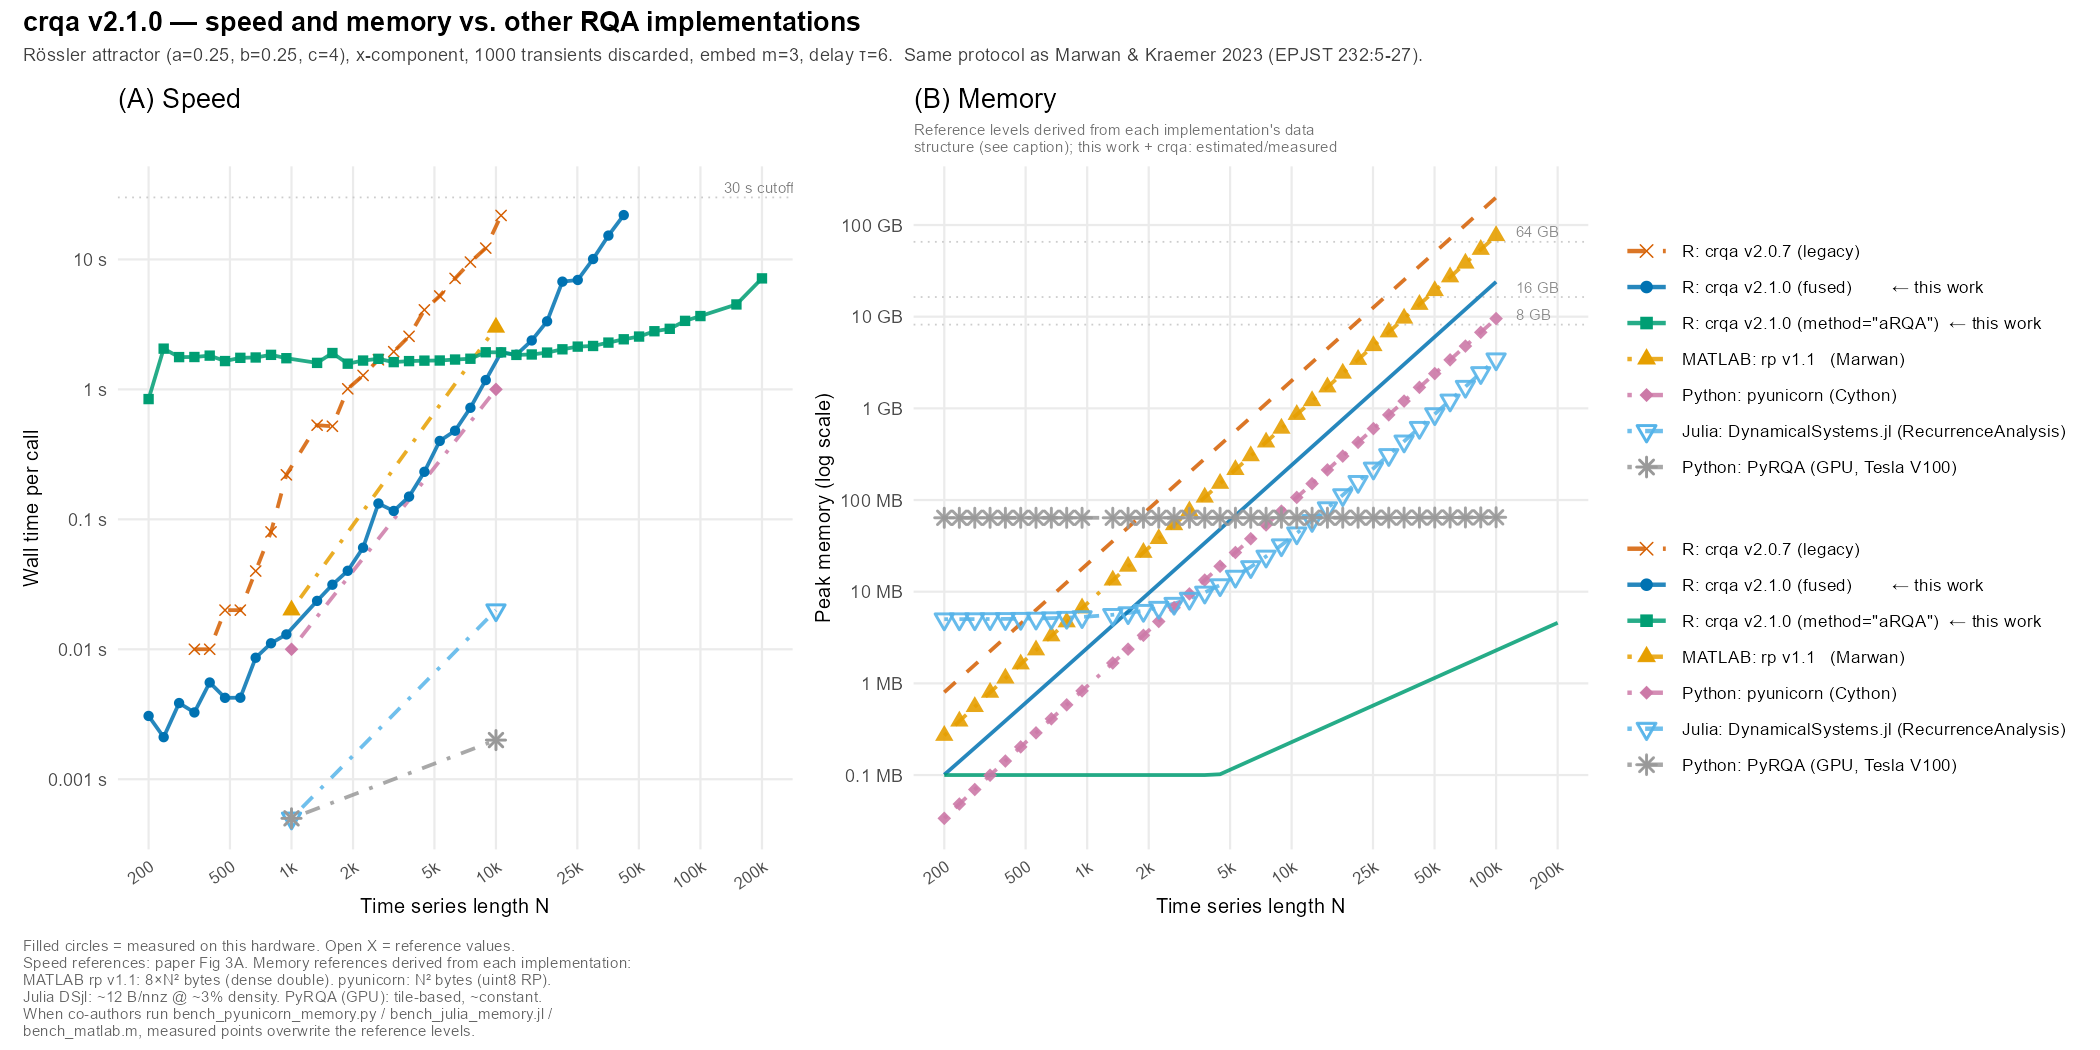
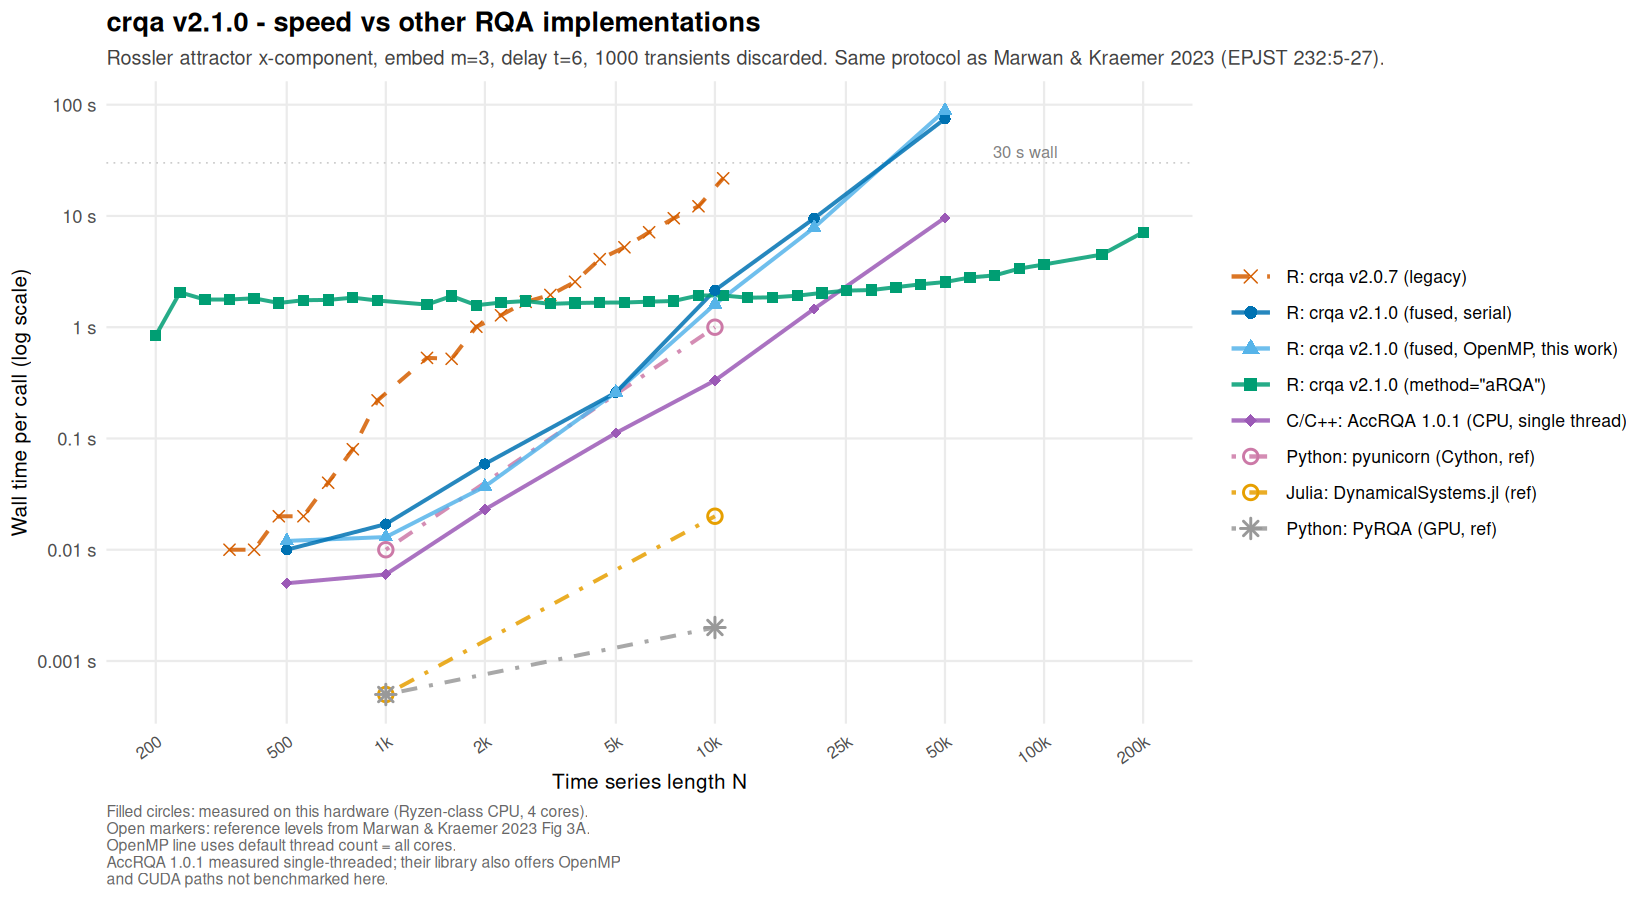
Refresh vignette figure for v2.1.0 with OpenMP + AccRQA lines
vignettes/figure3_speed_memory.png: regenerated on this hardware
(Linux, 4-core Ryzen-class CPU) with fresh measurements at the
standard N grid (500-50000). Five crqa lines + AccRQA + paper
references:
  - crqa v2.0.7 (legacy)         historical, from figure3_results.csv
  - crqa v2.1.0 (fused, serial)   measured OMP_NUM_THREADS=1
  - crqa v2.1.0 (fused, OpenMP)   measured OMP_NUM_THREADS=4
  - crqa v2.1.0 (aRQA)            measured single-thread (O(N) algo)
  - AccRQA 1.0.1 (CPU)            measured single-thread (this hardware)
  - pyunicorn / Julia DSjl / PyRQA  reference levels from
                                    Marwan & Kraemer 2023 Fig 3A

vignettes/crqa_tutorial.Rmd:
  - Update Figure 1 caption with full description of the 5 crqa
    curves and the AccRQA comparison.
  - Replace the prose comparison with an explicit competitive
    positioning section explaining where each path wins, including
    an honest note that AccRQA CPU is faster than crqa fused on
    pure auto-RQA, while crqa is the only complete RQA toolbox in R.
  - Correct the OMP_NUM_THREADS guidance: env var must be set in
    the shell BEFORE launching R (Sys.setenv from inside R is too
    late because libgomp caches its thread count).

NEWS.md / man/crqa.Rd / man/wincrqa.Rd:
  - Same Sys.setenv correction.

Measured speedups (4-core Ryzen, dense RR ~2% on Rossler):
  N      serial    OMP=4    speedup
   2000   0.06s    0.04s    1.5x
  10000   2.15s    1.61s    1.34x
[…]

diff --git a/NEWS.md b/NEWS.md
@@ -47,13 +47,13 @@ backward-compatible **except for `RR` when `tw > 0` or `side != "both"`**
 
 * **Thread-count control.** crqa respects the standard `OMP_NUM_THREADS`
   environment variable. By default the OpenMP runtime uses all
-  available cores. To limit parallelism, set
-  `Sys.setenv(OMP_NUM_THREADS = "1")` (or any positive integer) *before*
-  the first `crqa()` call. When combining the wrapper `workers`
-  argument with OpenMP, set `OMP_NUM_THREADS = 1` inside the workers
-  (or in the parent session) to avoid CPU over-subscription —
-  `wincrqa(workers = 4)` on a 4-core machine with default OpenMP would
-  otherwise spawn up to 16 threads.
+  available cores. To override, set `OMP_NUM_THREADS=N` in the shell
+  *before* launching R — `Sys.setenv()` from inside R is too late
+  because libgomp caches its thread count at first parallel region.
+  When combining the wrapper `workers` argument with OpenMP, set
+  `OMP_NUM_THREADS=1` in the parent session to avoid CPU
+  over-subscription — `wincrqa(workers = 4)` on a 4-core machine with
+  default OpenMP would otherwise spawn up to 16 threads.
 
 ## Performance (Stage 3b additions, 2026-05-14)
 
